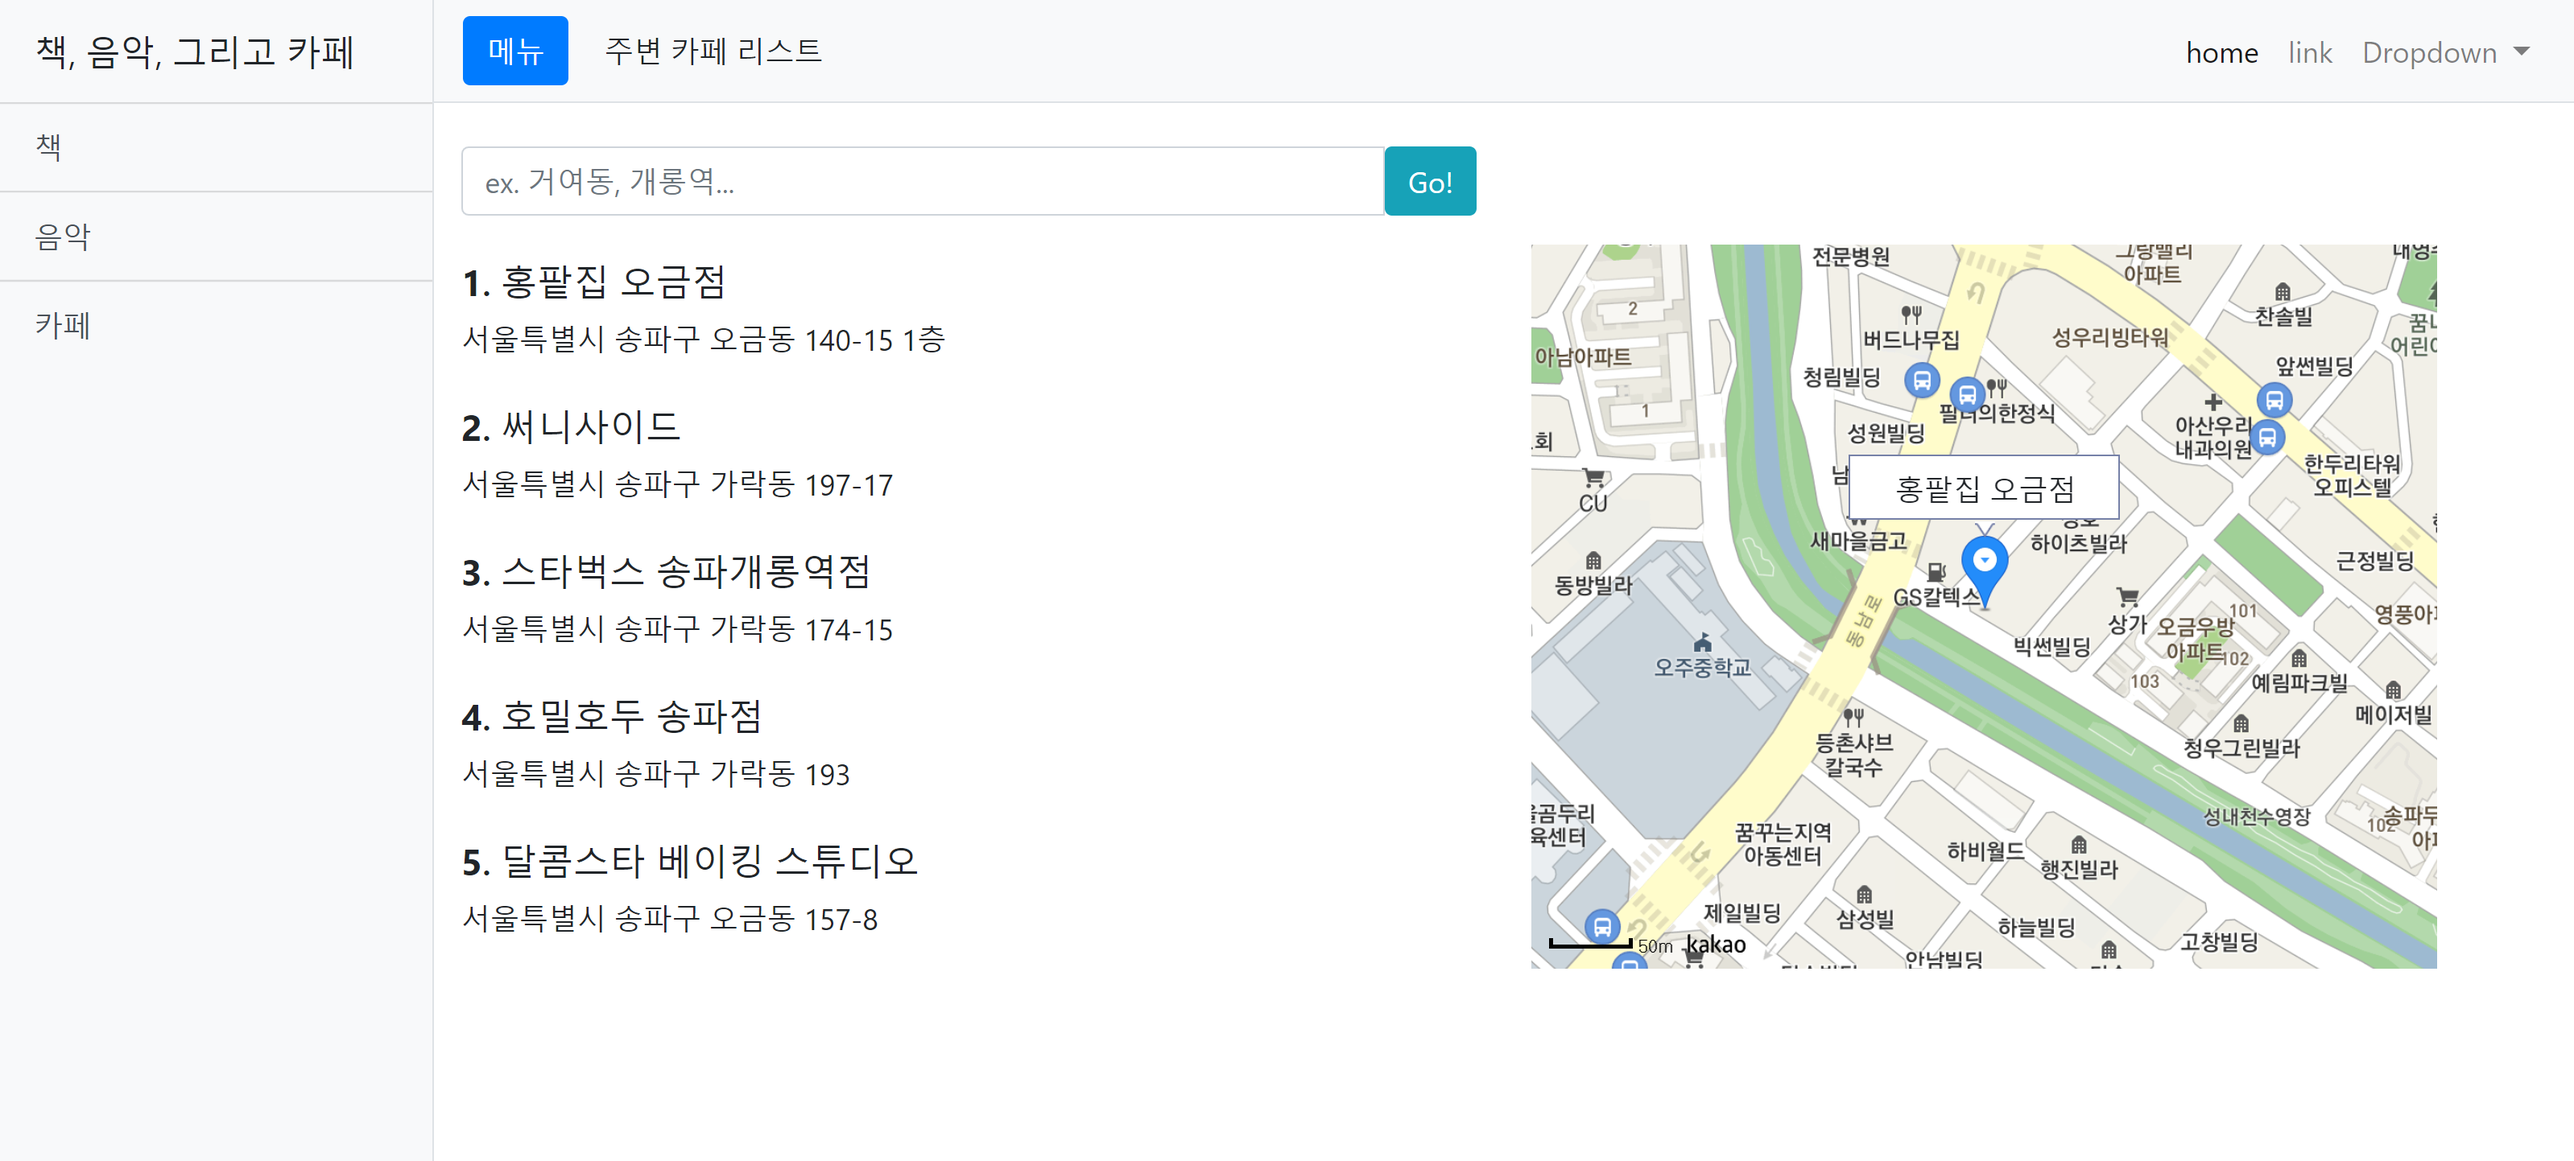
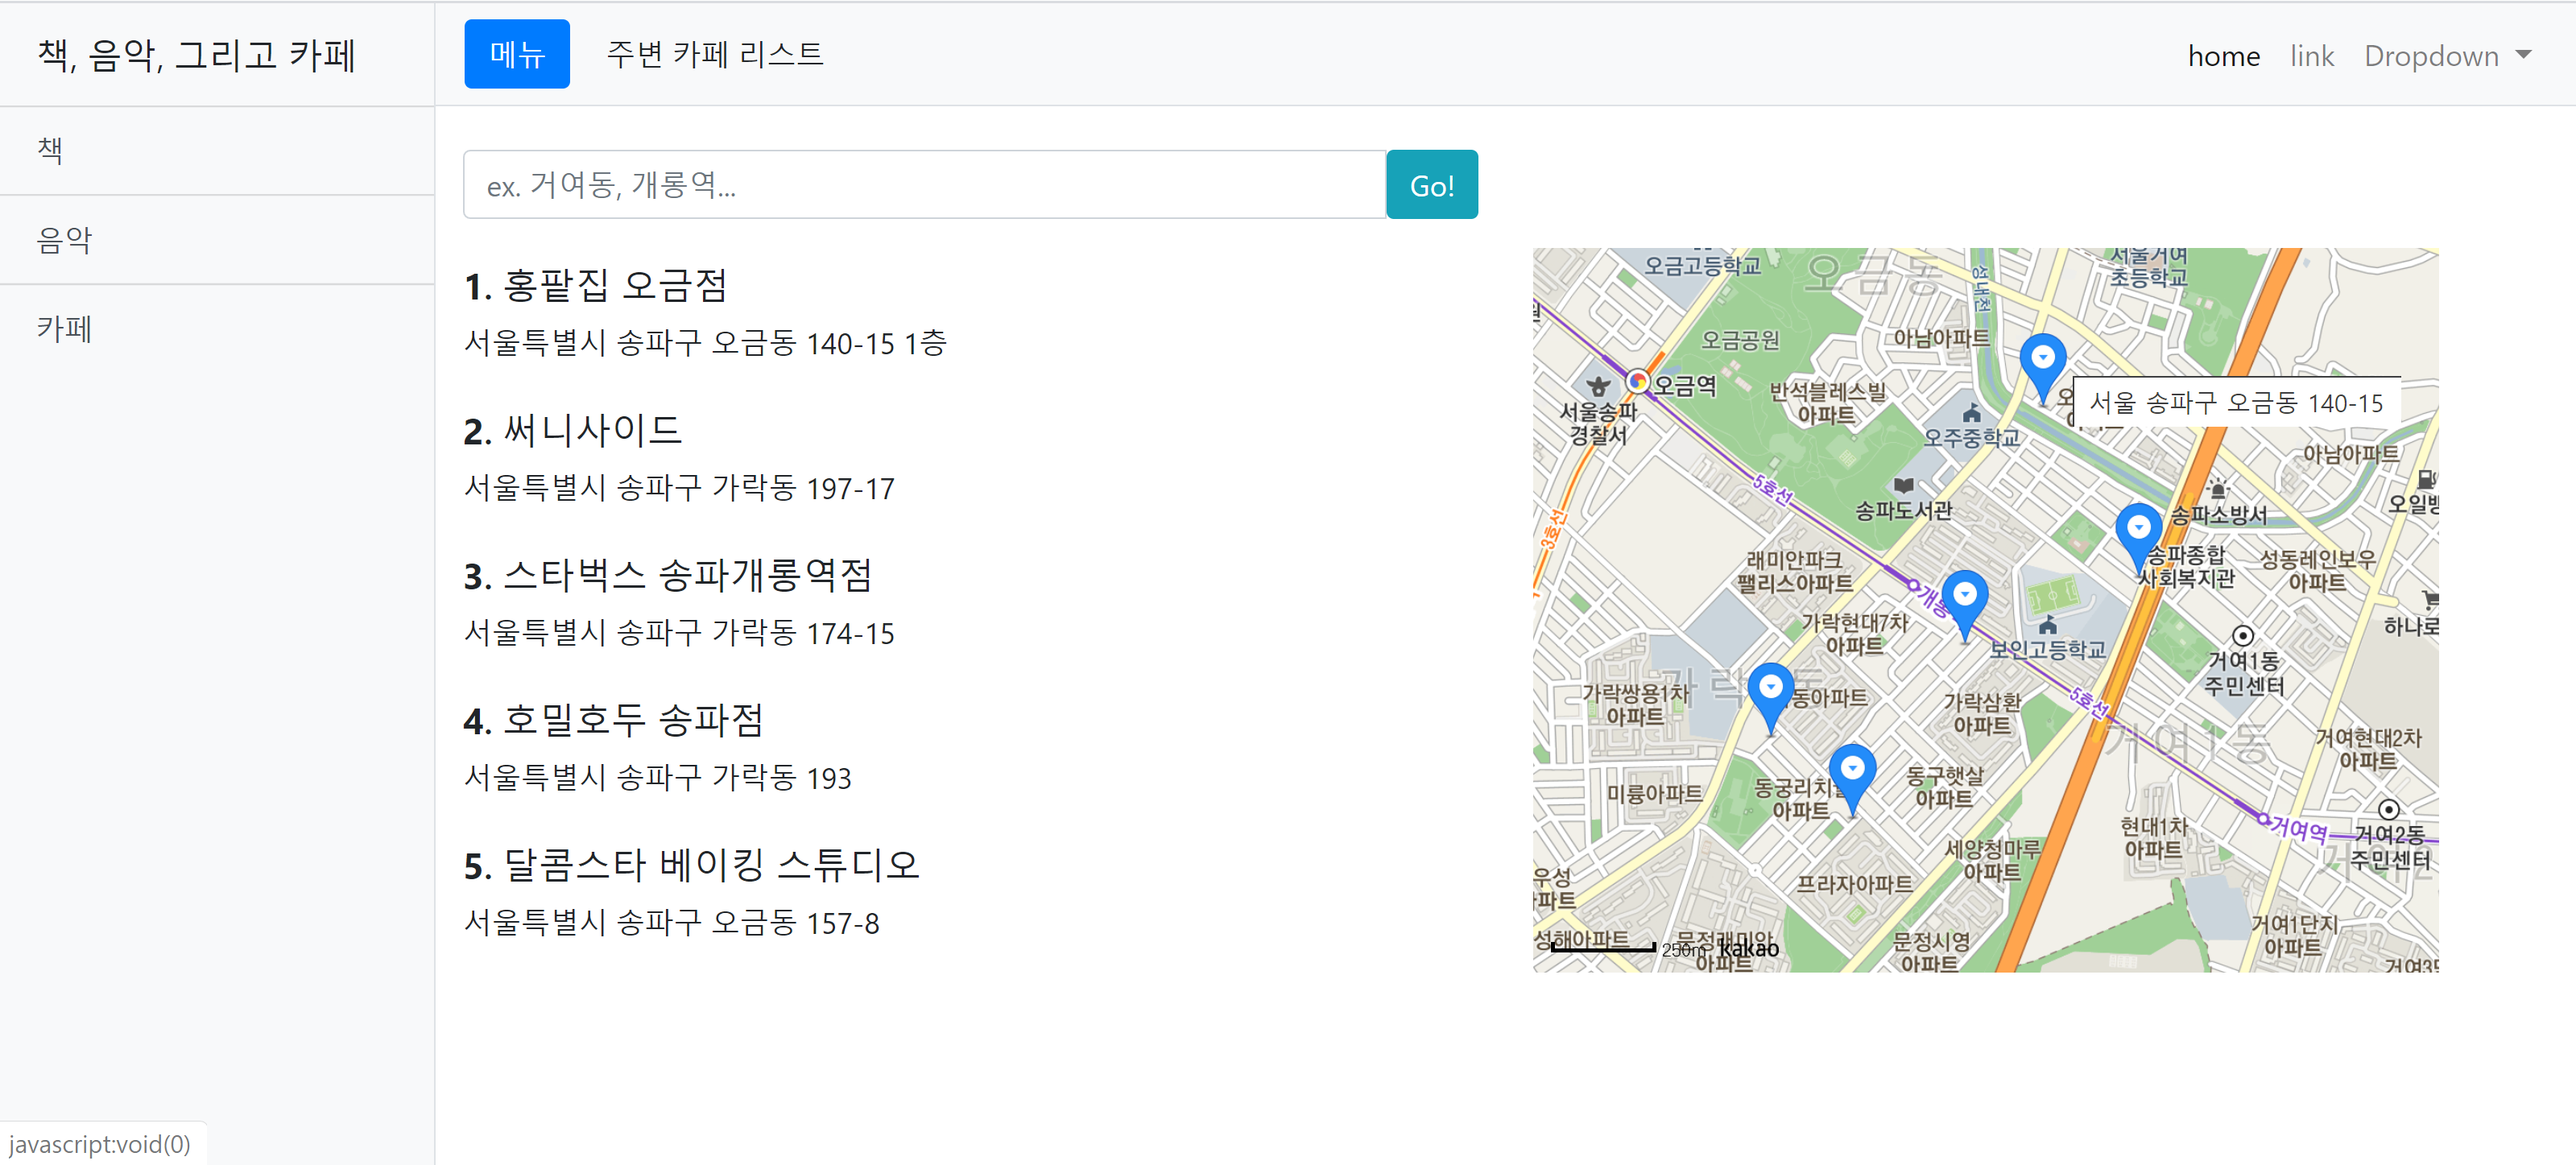
make multiple marker in kakao map

diff --git a/book/templates/book/cafe_list.html b/book/templates/book/cafe_list.html
@@ -31,44 +31,59 @@
         <div id="map" style="width:500px;height:400px;"></div>
         <script type="text/javascript"
             src="//dapi.kakao.com/v2/maps/sdk.js?appkey=2c5daaf368c39f2d74396917fb4b0154&libraries=services"></script>
-            <script>
-                var mapContainer = document.getElementById('map'), // 지도를 표시할 div 
-                    mapOption = {
-                        center: new kakao.maps.LatLng(33.450701, 126.570667), // 지도의 중심좌표
-                        level: 3 // 지도의 확대 레벨
-                    };  
-                
-                // 지도를 생성합니다    
-                var map = new kakao.maps.Map(mapContainer, mapOption); 
-                
-                // 주소-좌표 변환 객체를 생성합니다
-                var geocoder = new kakao.maps.services.Geocoder();
-                
+        <script>
+            var mapContainer = document.getElementById('map'), // 지도를 표시할 div 
+                mapOption = {
+                    center: new kakao.maps.LatLng(33.450701, 126.570667), // 지도의 중심좌표
+                    level: 5 // 지도의 확대 레벨
+                };
+
+            // 지도를 생성합니다    
+            var map = new kakao.maps.Map(mapContainer, mapOption);
+
+            // 주소-좌표 변환 객체를 생성합니다
+            var geocoder = new kakao.maps.services.Geocoder();
+
+            //var addr0 = "{{ cafe_addr.0 }}"
+            //var name0 = "{{ cafe_title.0 }}"
+            var addr = {{ cafe_addr| safe }};
+            var titles = {{ cafe_title| striptags | safe }};
+
+            for (var i = 0; i < addr.length; i++) {
+
                 // 주소로 좌표를 검색합니다
-                geocoder.addressSearch("서울특별시 송파구 오금동 140-15 1층", function(result, status) {
-                
+                geocoder.addressSearch(addr[i], function (result, status) {
                     // 정상적으로 검색이 완료됐으면 
-                     if (status === kakao.maps.services.Status.OK) {
-                
+                    if (status === kakao.maps.services.Status.OK) {
+
                         var coords = new kakao.maps.LatLng(result[0].y, result[0].x);
-                
+
                         // 결과값으로 받은 위치를 마커로 표시합니다
                         var marker = new kakao.maps.Marker({
                             map: map,
-                            position: coords
+                            position: coords,
+                            title: result[0].address_name
                         });
-                
-                        // 인포윈도우로 장소에 대한 설명을 표시합니다
-                        var infowindow = new kakao.maps.InfoWindow({
-                            content: '<div style="width:150px;text-align:center;padding:6px 0;">홍팥집 오금점</div>'
-                        });
-                        infowindow.open(map, marker);
-                
+
+                        // // 인포윈도우로 장소에 대한 설명을 표시합니다
+                        // var infowindow = new kakao.maps.InfoWindow({
+                        //     content: '<div style="width:150px;text-align:center;padding:6px 0;">' + "여기여기" + '</div>'
+                        // });
+                        // infowindow.open(map, marker);
+
                         // 지도의 중심을 결과값으로 받은 위치로 이동시킵니다
                         map.setCenter(coords);
-                    } 
-                });    
-                </script>
+                    }
+                });
+
+            }
+
+            for (var i = 0; i < titles.length; i++) {
+
+            }
+
+
+        </script>
     </div>
 </div>
 

diff --git a/book/views.py b/book/views.py
@@ -45,12 +45,15 @@ def cafe_list(request):
 
     cafe_title = []
     cafe_addr = []
+    cafe_link = []
     for cafe in cafe_list:
         cafe_title.append(cafe['title'])
         cafe_addr.append(cafe['address'])
+        cafe_link.append(cafe['link'])
 
     context = {
         'cafe_title': cafe_title,
         'cafe_addr': cafe_addr,
+        'cafe_link': cafe_link,
     }
     return HttpResponse(template.render(context, request))
